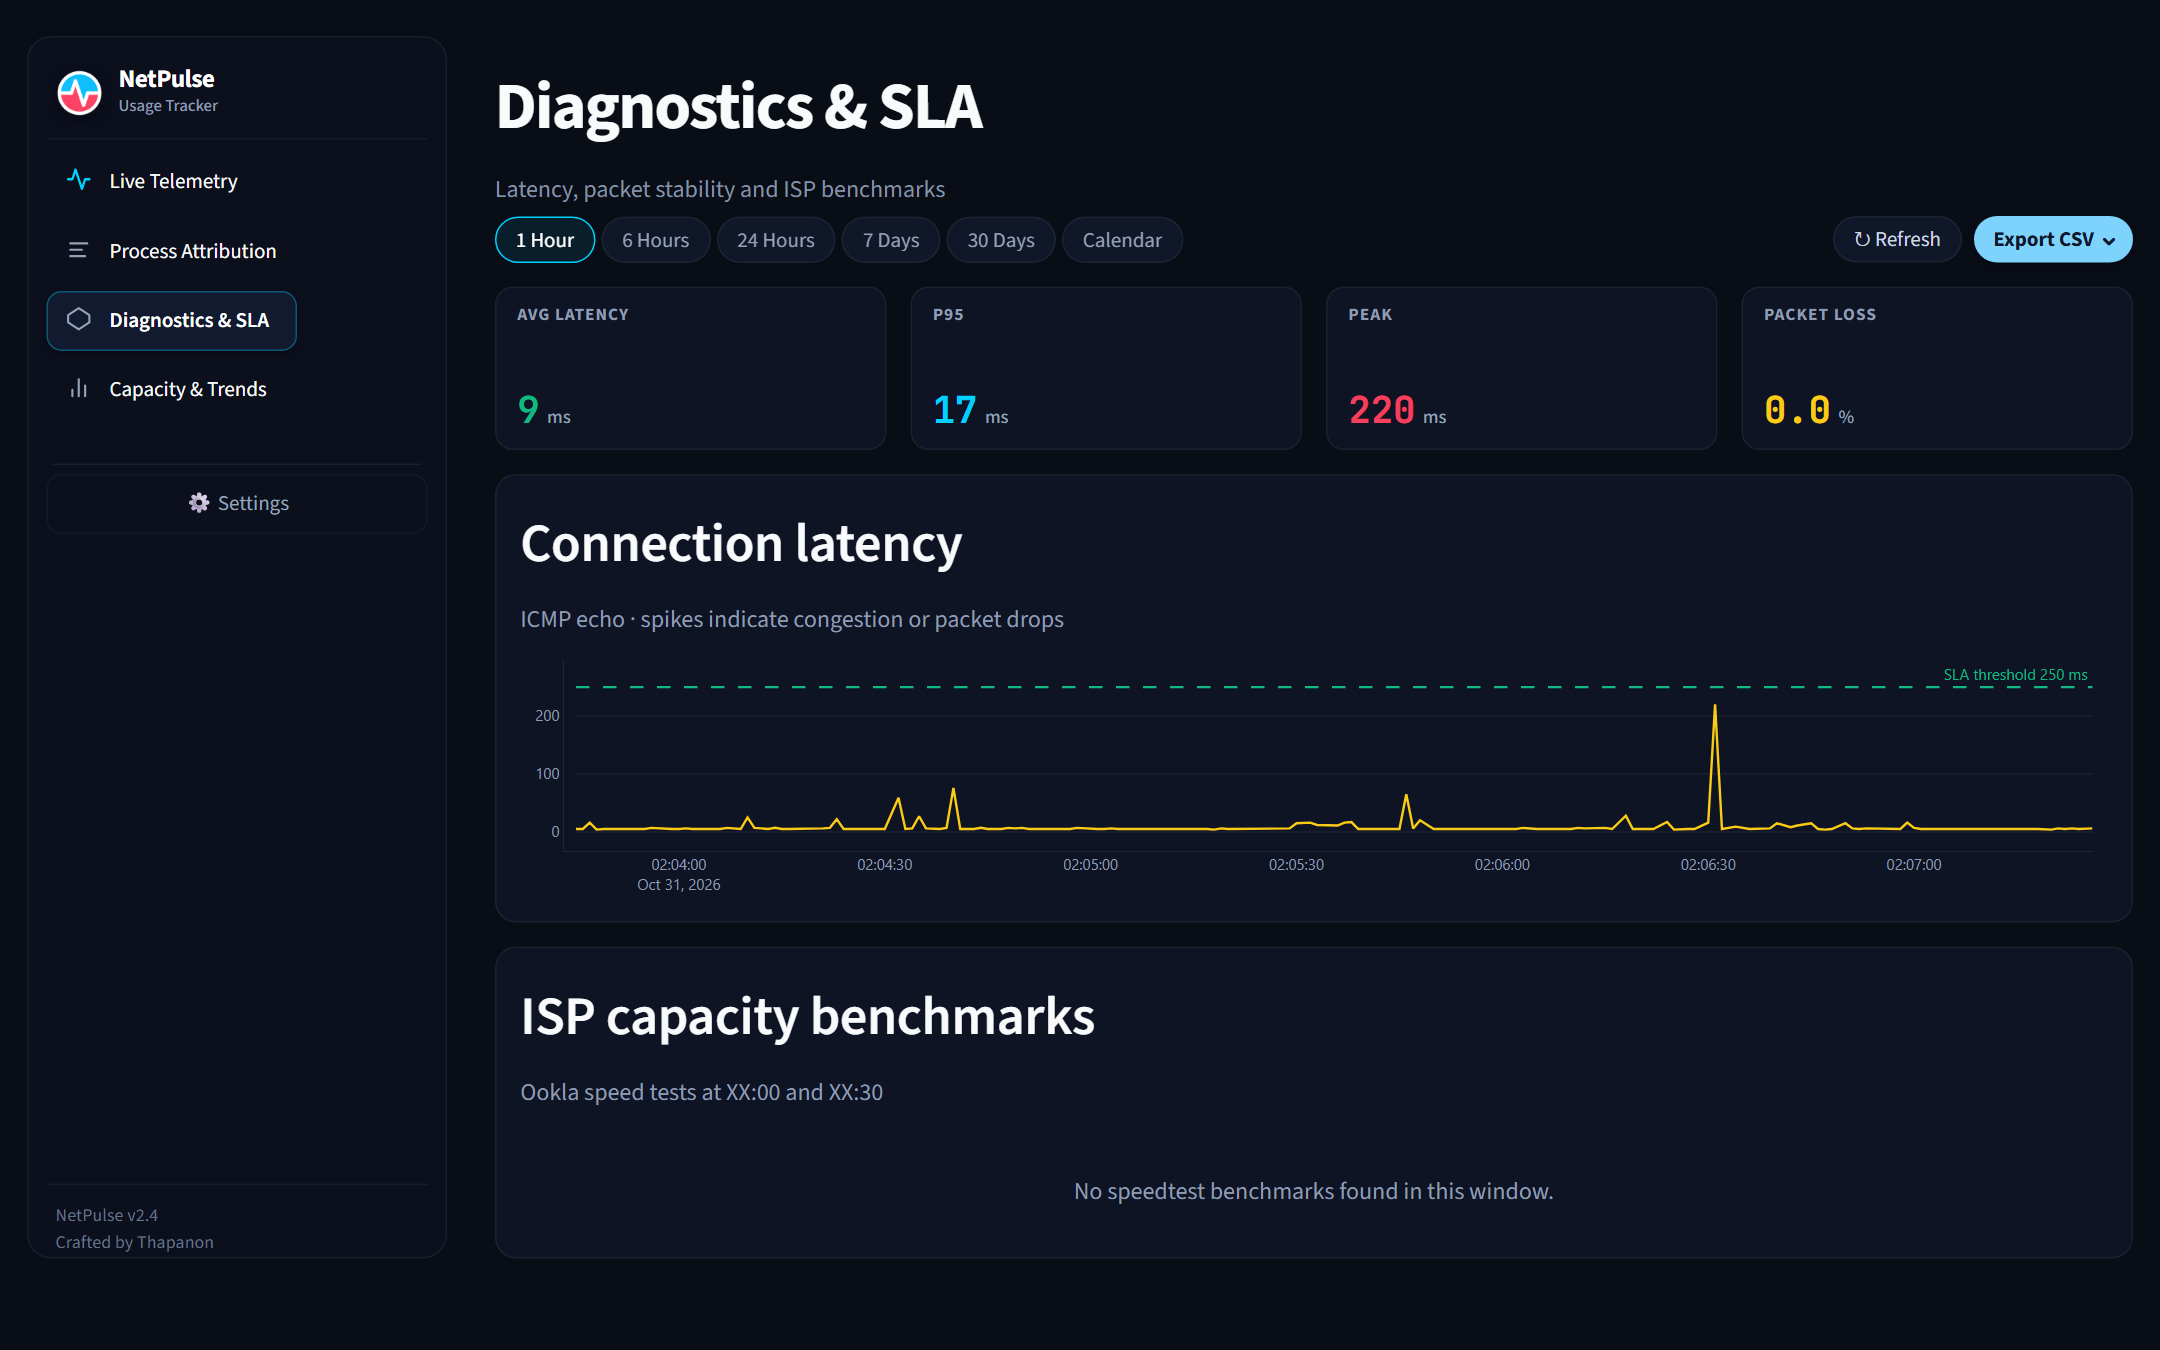
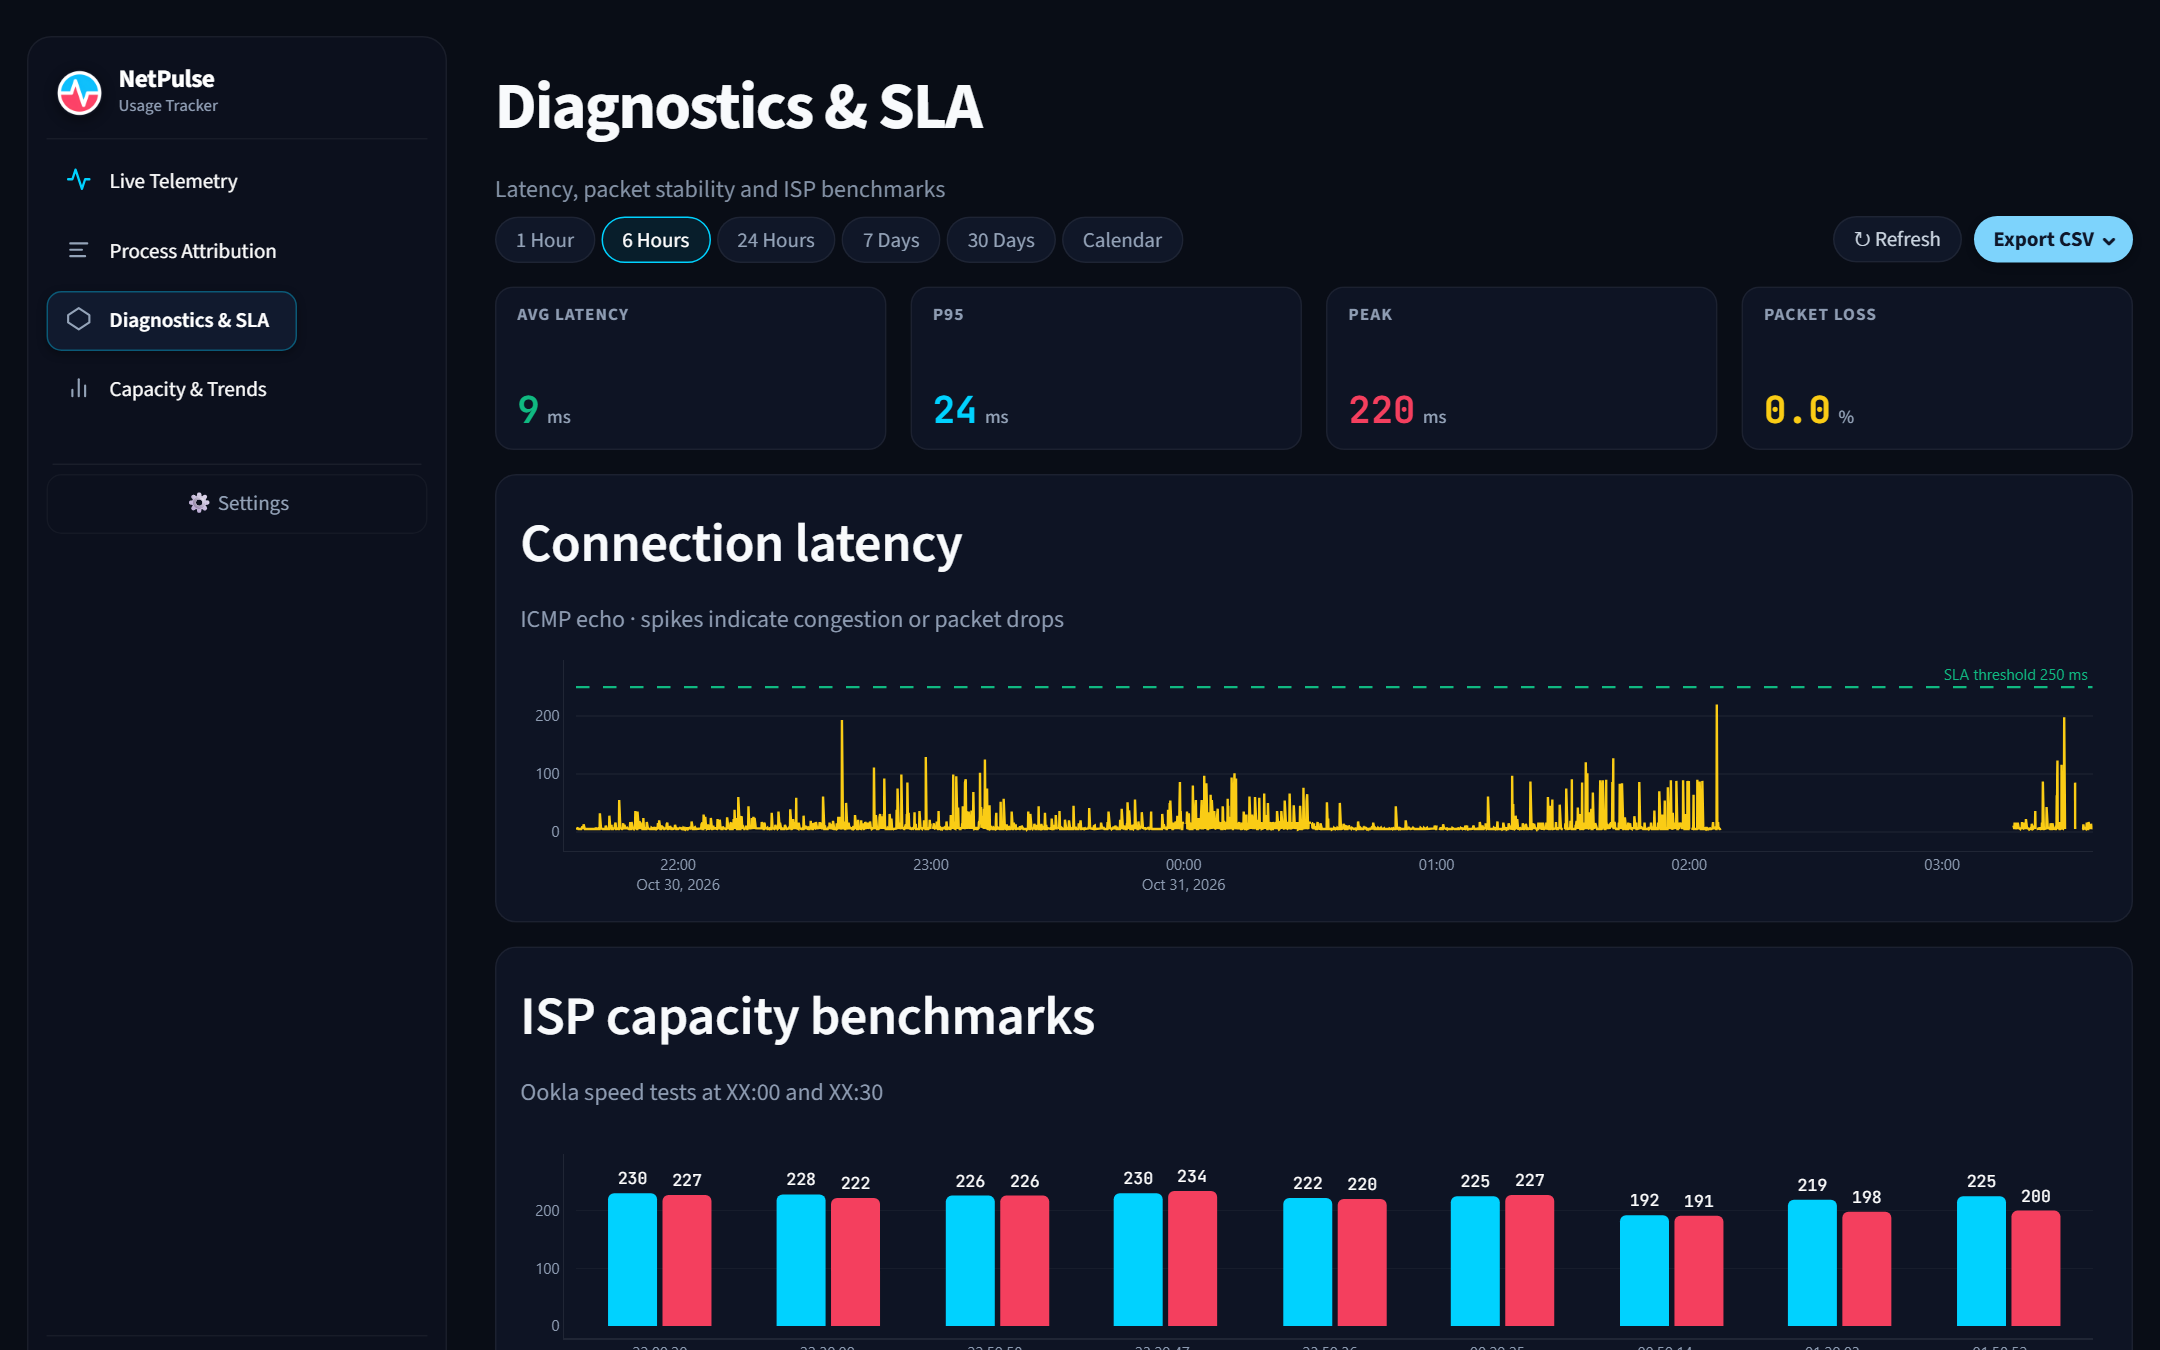
docs: update diagnostics screenshot and animated showcase to include isp benchmarks

diff --git a/scripts/recapture_diag_sla.py b/scripts/recapture_diag_sla.py
@@ -1,0 +1,38 @@
+import asyncio
+import os
+from playwright.async_api import async_playwright
+
+ASSETS_DIR = r"C:\Users\NussyEiEi\Desktop\code\Try\Network_rec\assets"
+out_path = os.path.join(ASSETS_DIR, "screen_diagnostics_sla.png")
+
+async def capture_diag():
+    async with async_playwright() as p:
+        browser = await p.chromium.launch()
+        page = await browser.new_page(viewport={"width": 1440, "height": 900}, device_scale_factor=1.5)
+        print("Navigating to http://localhost:8501...")
+        await page.goto("http://localhost:8501", wait_until="networkidle")
+        await page.wait_for_timeout(2500)
+
+        print("Switching to Diagnostics & SLA...")
+        tab_locator = page.get_by_text("Diagnostics & SLA", exact=False).first
+        await tab_locator.click()
+        await page.wait_for_timeout(2500)
+
+        print("Selecting 6 Hours scope to reveal ISP Ookla benchmarks...")
+        pill_6h = page.get_by_text("6 Hours", exact=True).first
+        await pill_6h.click()
+        await page.wait_for_timeout(4000)
+
+        loader = page.locator("#netpulse-global-loader")
+        if await loader.count() > 0:
+            try:
+                await loader.wait_for(state="detached", timeout=5000)
+            except Exception:
+                pass
+
+        await page.screenshot(path=out_path)
+        print(f"Successfully captured Diagnostics & SLA with ISP benchmarks to {out_path}")
+        await browser.close()
+
+if __name__ == "__main__":
+    asyncio.run(capture_diag())
